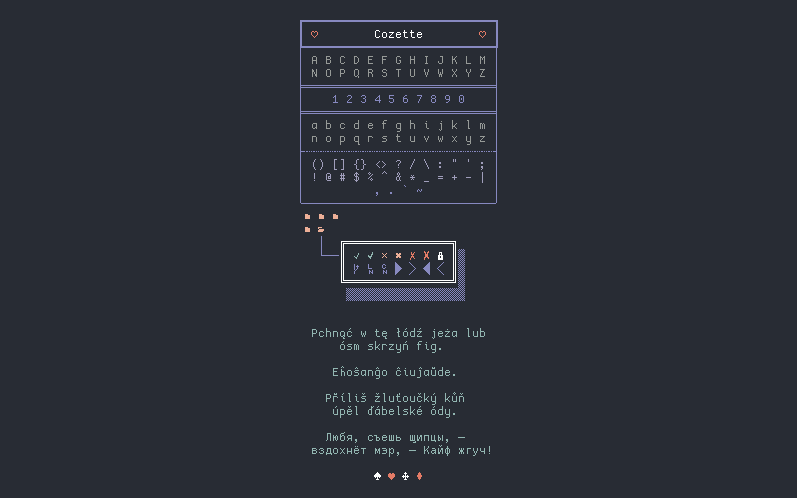
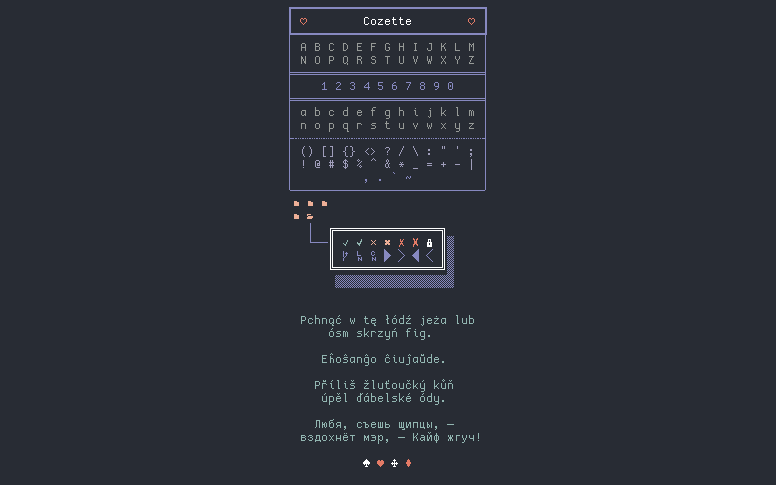
v.1.20.1 Sunglasses emoji

Changed region(s): [[0.3711, 0.0, 0.6495, 0.6186], [0.3711, 0.6495, 0.6186, 0.8351], [0.3711, 0.866, 0.6186, 0.9278]]

diff --git a/CHANGELOG.md b/CHANGELOG.md
@@ -5,6 +5,12 @@ All notable changes to this project will be documented in this file.
 The format is based on [Keep a Changelog], and this project adheres to
 [Semantic Versioning].
 
+## [1.20.1]
+
+### Added
+
+- 😎 (U+1F60E SMILING FACE WITH SUNGLASSES)
+
 ## [1.20.0]
 
 The APL update
@@ -2173,7 +2179,8 @@ Still broken on Windows.
 
 [keep a changelog]: https://keepachangelog.com/en/1.0.0/
 [semantic versioning]: https://semver.org/spec/v2.0.0.html
-[unreleased]: https://github.com/slavfox/Cozette/compare/v.1.20.0...HEAD
+[unreleased]: https://github.com/slavfox/Cozette/compare/v.1.20.1...HEAD
+[1.20.1]: https://github.com/slavfox/Cozette/compare/v.1.20.0...v.1.20.1
 [1.20.0]: https://github.com/slavfox/Cozette/compare/v.1.19.3...v.1.20.0
 [1.19.3]: https://github.com/slavfox/Cozette/compare/v.1.19.2-hidpi2...v.1.19.3
 [1.19.2-hidpi2]: https://github.com/slavfox/Cozette/compare/v.1.19.2-hidpi...v.1.19.2-hidpi2
